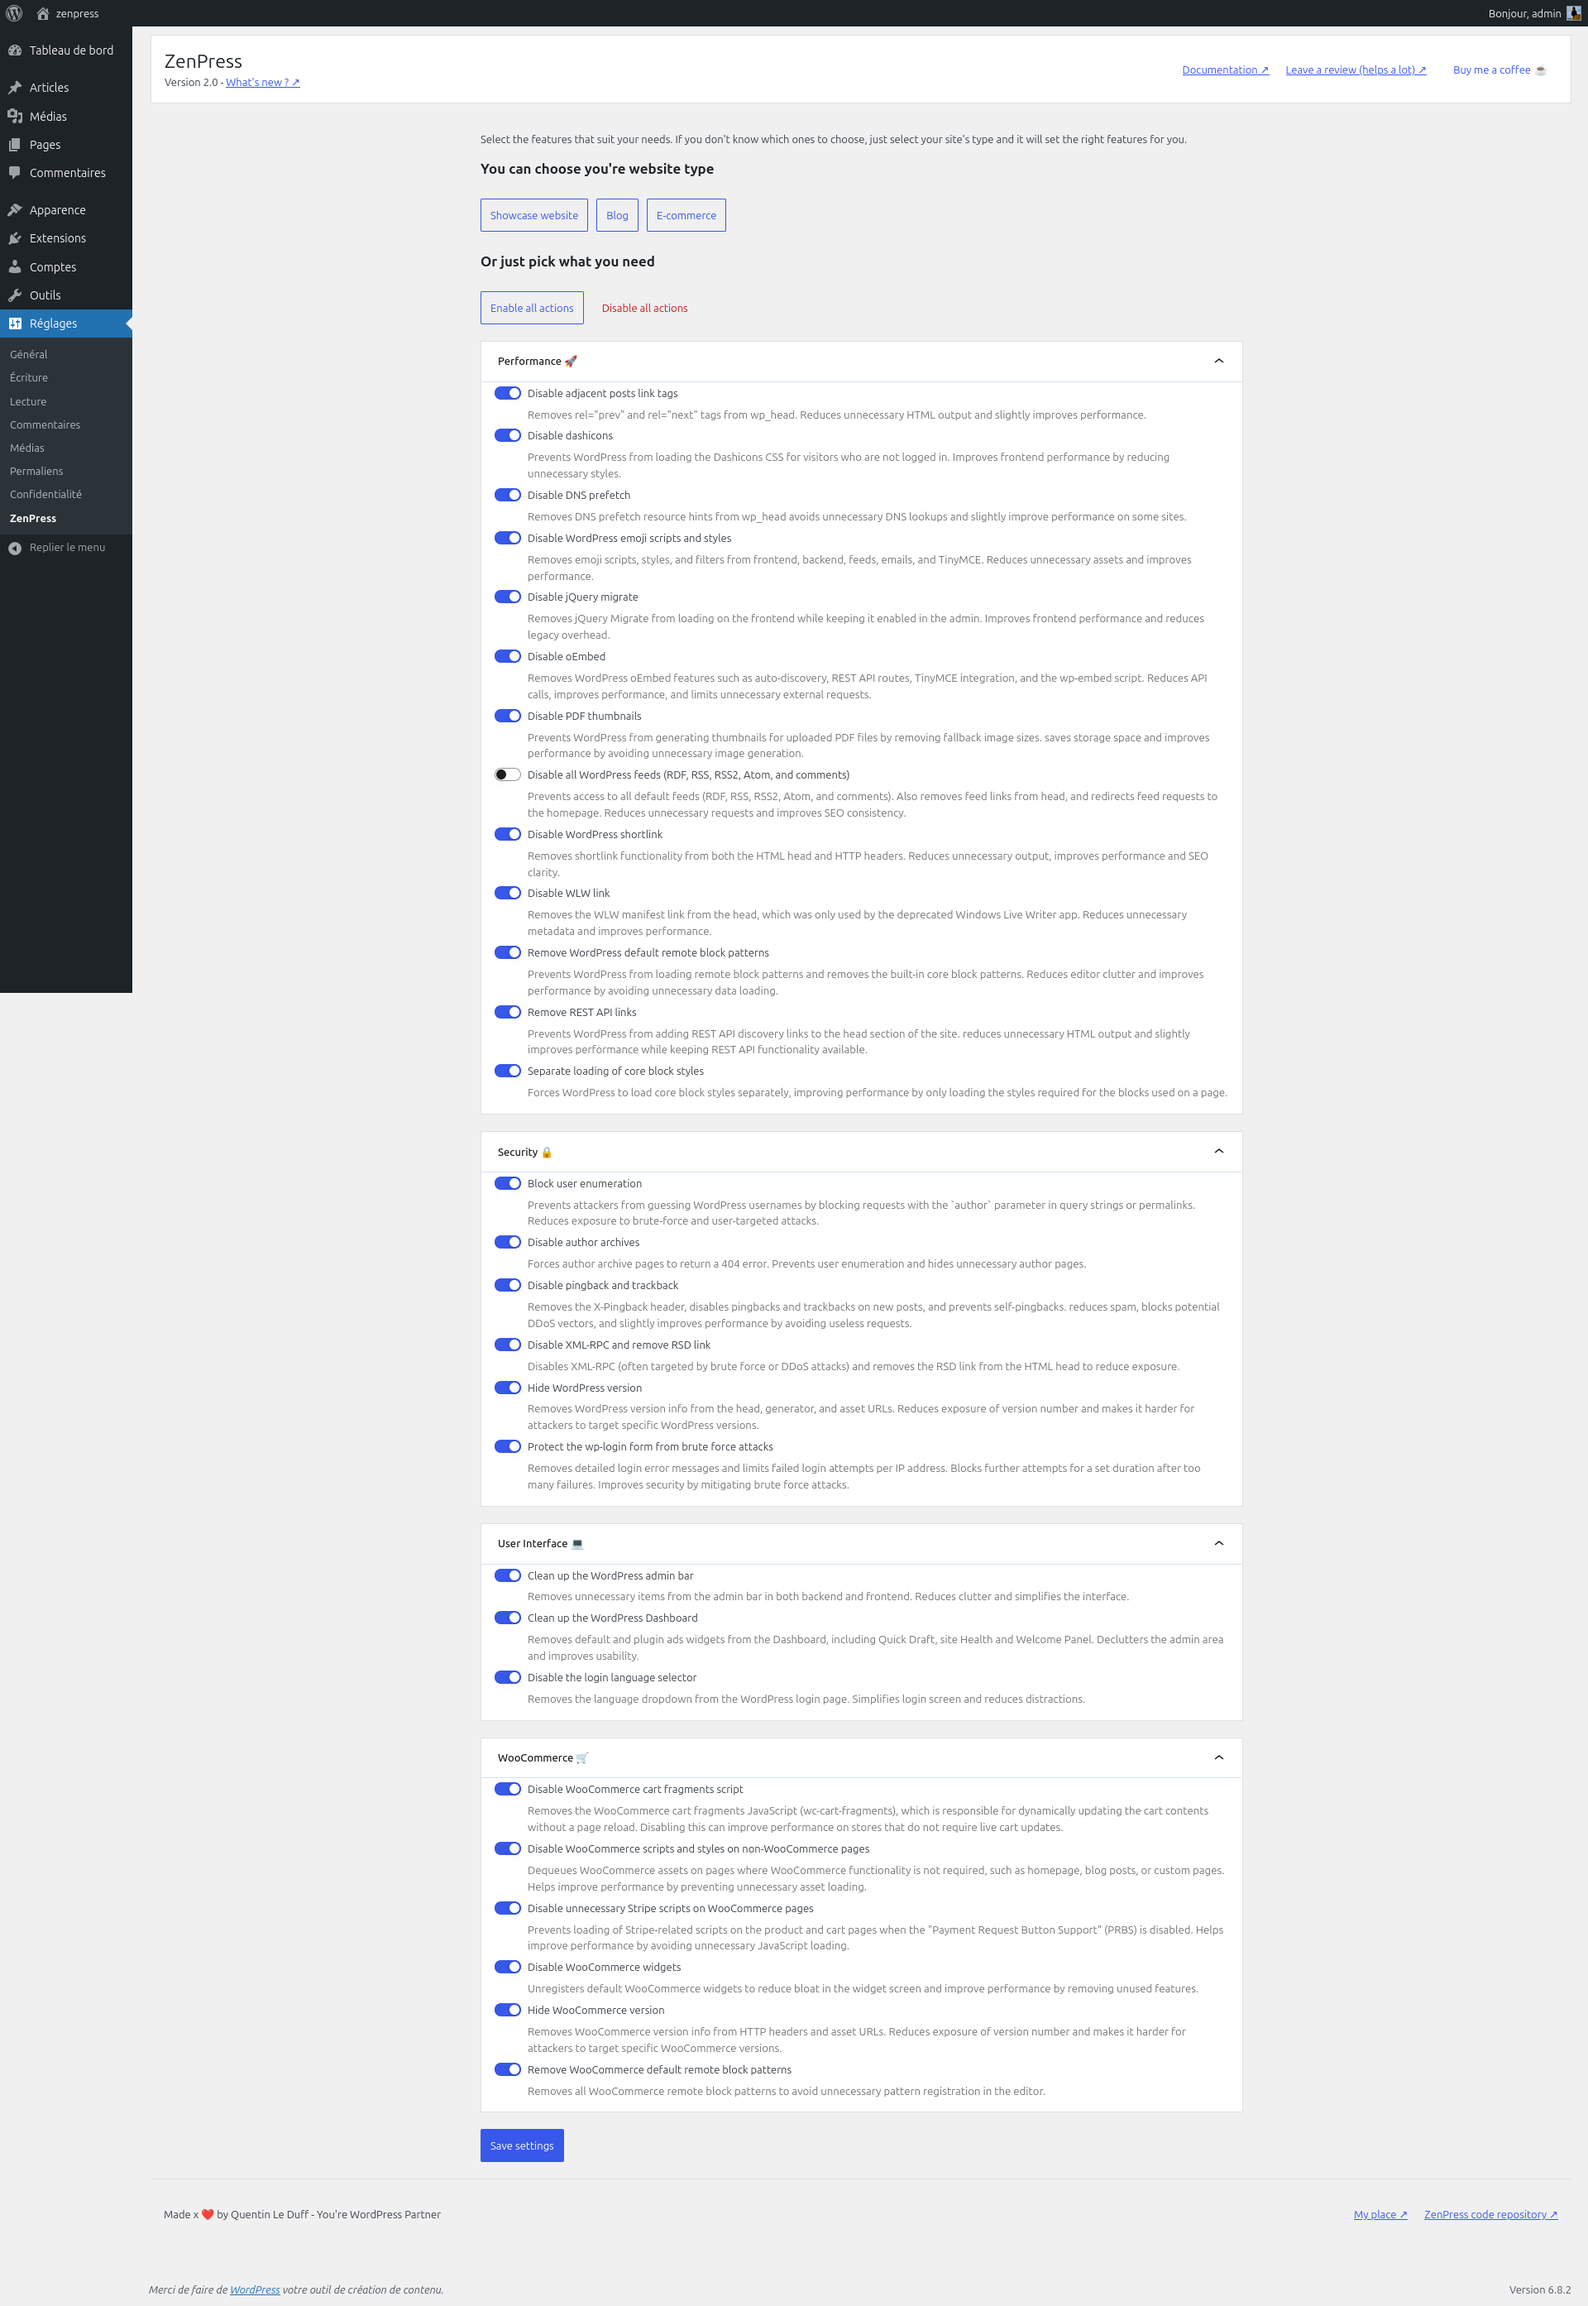
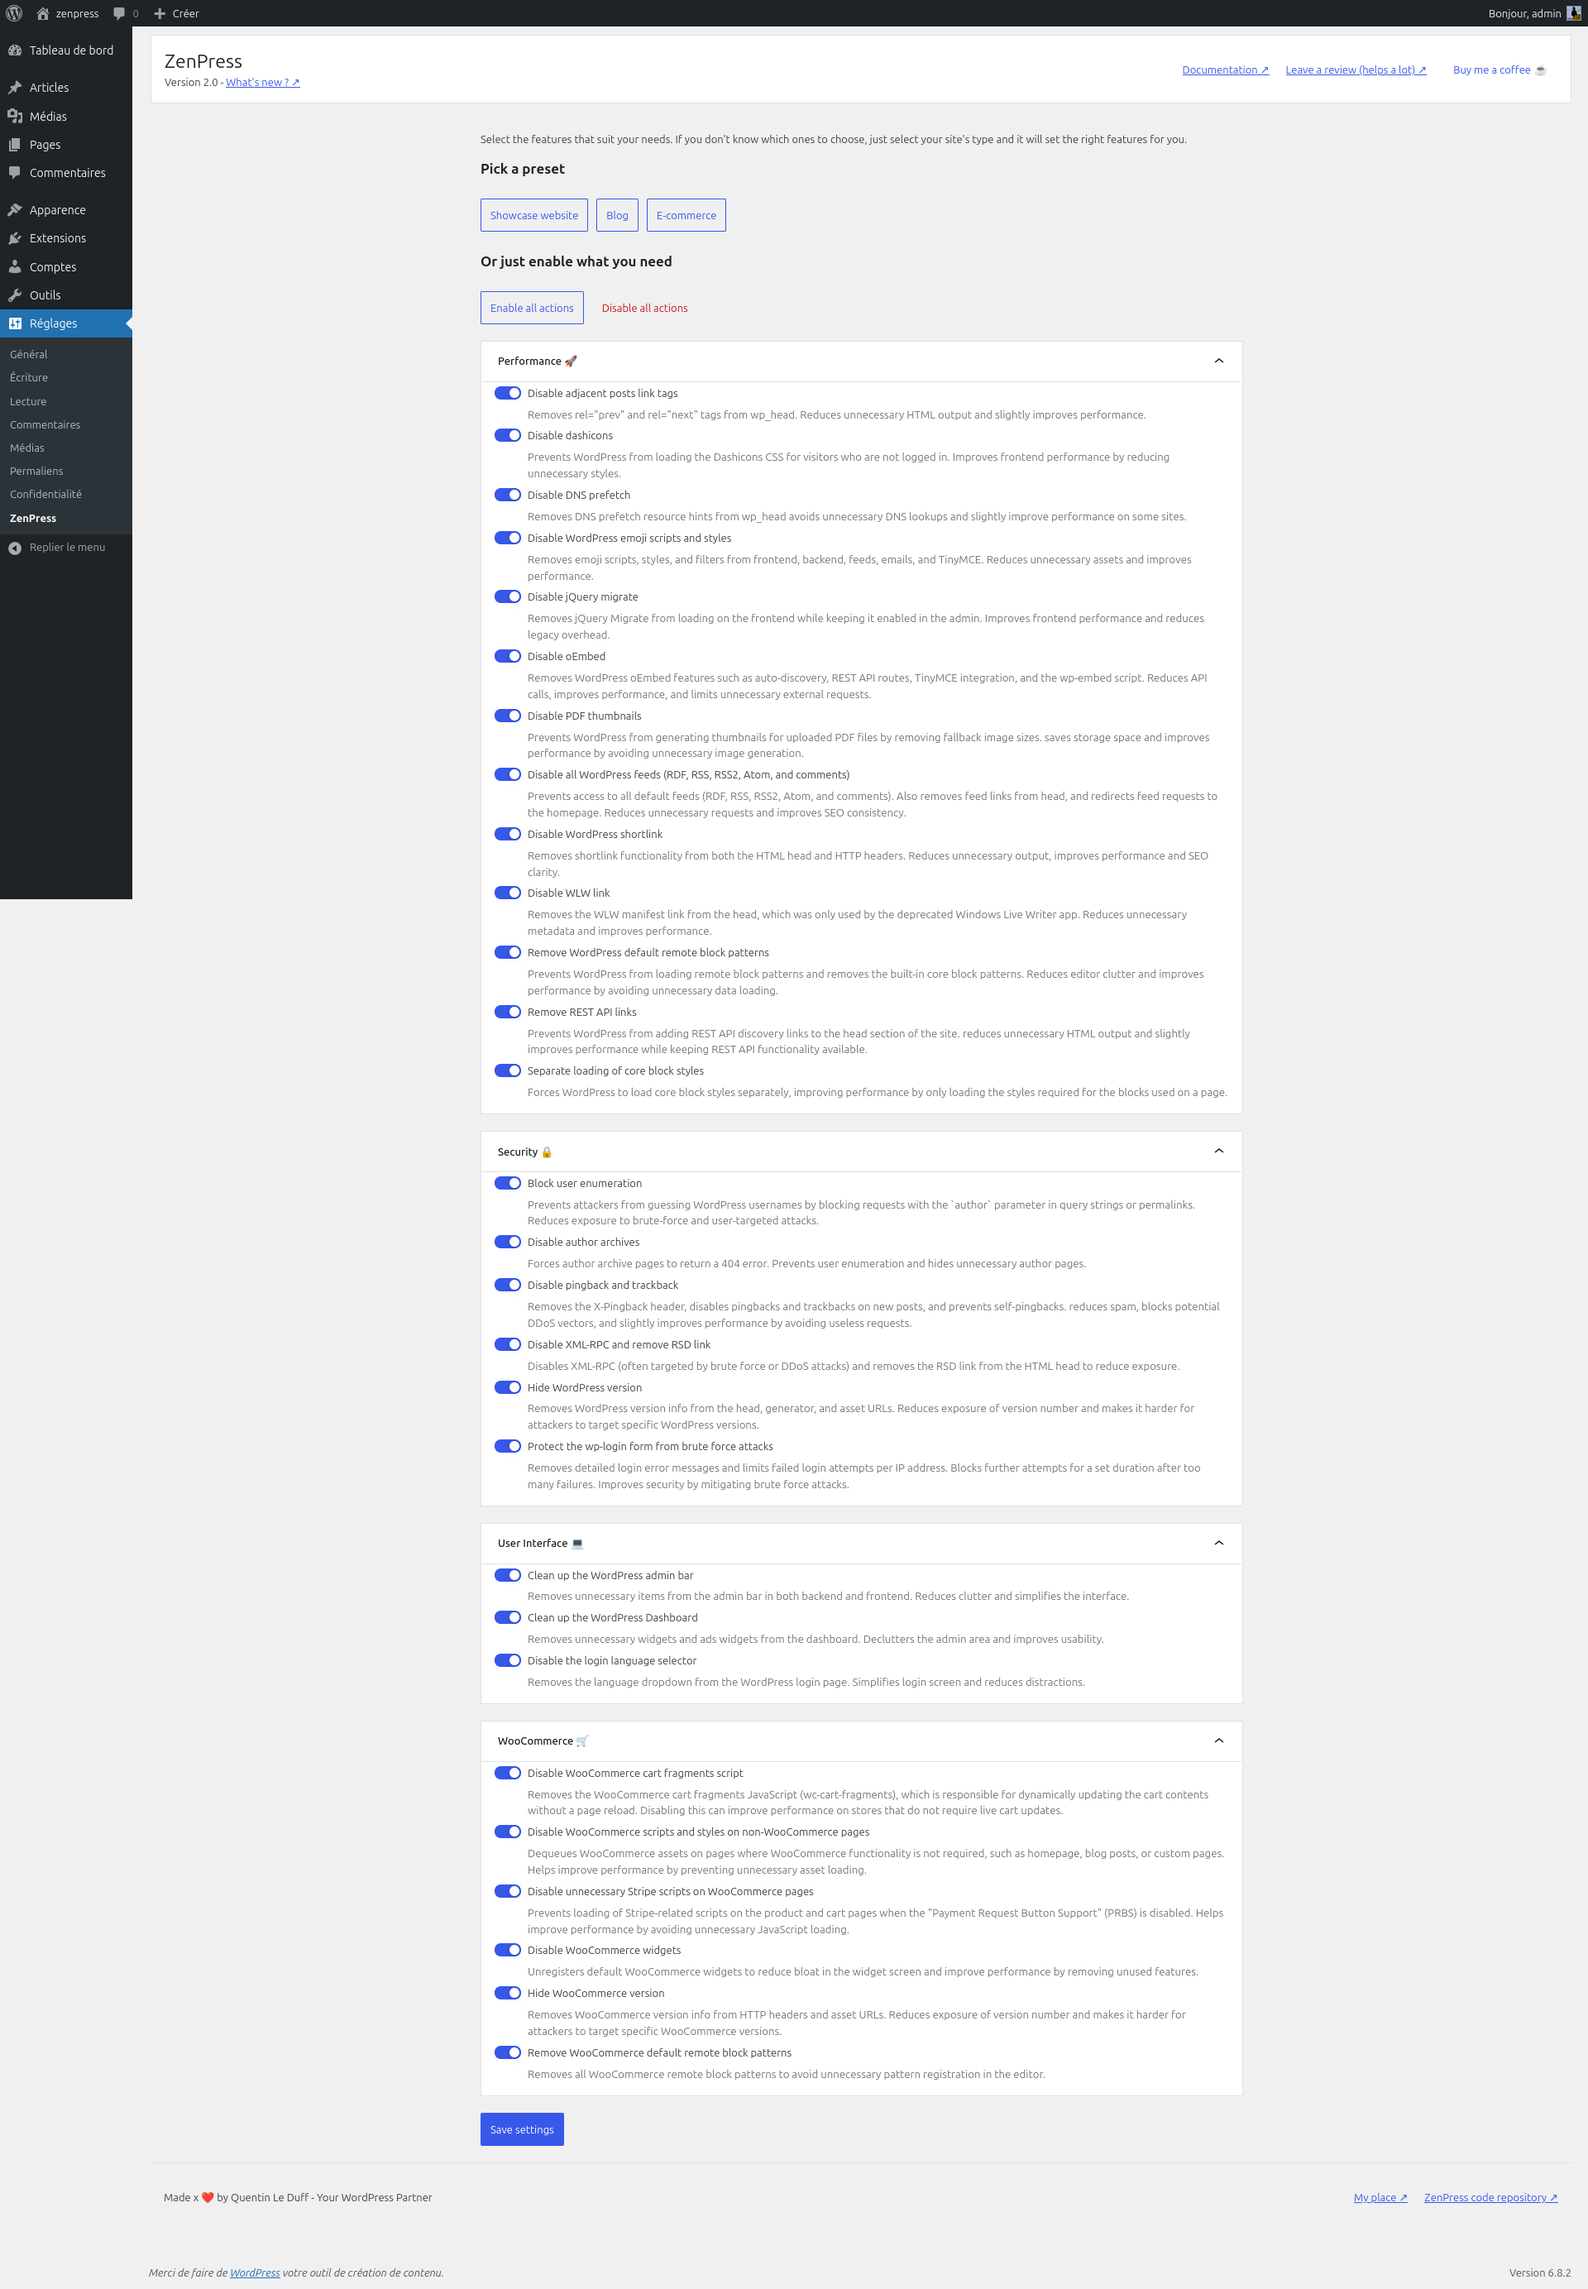
fix typo

diff --git a/assets/build/index.js b/assets/build/index.js
@@ -1,1 +1,1 @@
-(()=>{"use strict";var e={n:s=>{var t=s&&s.__esModule?()=>s.default:()=>s;return e.d(t,{a:t}),t},d:(s,t)=>{for(var n in t)e.o(t,n)&&!e.o(s,n)&&Object.defineProperty(s,n,{enumerable:!0,get:t[n]})},o:(e,s)=>Object.prototype.hasOwnProperty.call(e,s)};const s=window.wp.domReady;var t=e.n(s);const n=window.wp.element,i=window.wp.i18n,a=window.wp.components,r=window.wp.apiFetch;var o=e.n(r);const c=window.wp.data,p=window.wp.notices,l=window.ReactJSXRuntime,d=({label:e,value:s,onChange:t,help:n})=>(0,l.jsx)(a.ToggleControl,{label:e,checked:s,onChange:t,help:n,__nextHasNoMarginBottom:!0}),h=({onClick:e,isBusy:s})=>(0,l.jsx)(a.Button,{variant:"primary",onClick:e,isBusy:s,__next40pxDefaultSize:!0,children:(0,i.__)("Save settings","zenpress")}),u=()=>{const{removeNotice:e}=(0,c.useDispatch)(p.store),s=(0,c.useSelect)(e=>e(p.store).getNotices());return s?.length?(0,l.jsx)(a.NoticeList,{notices:s,onRemove:e}):null},_=()=>{const{snippets:e,setSnippets:s,saveSettings:t,isSaving:r}=(()=>{const[e,s]=(0,n.useState)({}),[t,a]=(0,n.useState)(!1),{createSuccessNotice:r,createErrorNotice:l}=(0,c.useDispatch)(p.store);return(0,n.useEffect)(()=>{o()({path:"/wp/v2/settings"}).then(e=>{const t=Array.isArray(e?.zenpress_active_snippets)?e.zenpress_active_snippets:[],n={},i=window?.zenpressSnippetsMeta||{};Object.keys(i).forEach(e=>{const s=i[e]||{};n[e]={...s,"enable-snippet":t.includes(e)}}),s(n)}).catch(()=>{l((0,i.__)("Failed to load settings.","zenpress"))})},[l]),{snippets:e,setSnippets:s,saveSettings:()=>{a(!0);const s=Object.keys(e).filter(s=>e[s]?.["enable-snippet"]||!1);return o()({path:"/wp/v2/settings",method:"POST",data:{zenpress_active_snippets:s}}).then(()=>{r((0,i.__)("Settings saved.","zenpress"))}).catch(()=>{l((0,i.__)("Failed to save settings.","zenpress"))}).finally(()=>a(!1))},isSaving:t}})(),[_,w]=(0,n.useState)(new Set),v=e=>{s(s=>{const t={},n=new Set(_);return Object.entries(s).forEach(([s,a])=>{const r=(Array.isArray(a?.preset)?a.preset:[]).includes(e);t[s]={...a,"enable-snippet":r},r&&n.add(a.category||(0,i.__)("Uncategorized","zenpress"))}),w(n),t})},x={};Object.keys(e).forEach(s=>{const t=e[s],n=t?.category||(0,i.__)("Uncategorized","zenpress");x[n]||(x[n]=[]),x[n].push({name:s,data:t})});const j=Object.keys(x).sort((e,s)=>e.localeCompare(s,void 0,{sensitivity:"base"}));return(0,l.jsx)(l.Fragment,{children:(0,l.jsx)("div",{className:"zenpress-row",children:(0,l.jsxs)("div",{className:"zenpress-col",children:[(0,l.jsxs)("div",{className:"zenpress-presets",children:[(0,l.jsxs)("div",{className:"zenpress-presets-description",children:[(0,l.jsx)("p",{children:(0,i.__)("Select the features that suit your needs. If you don't know which ones to choose, just select your site's type and it will set the right features for you.","zenpress")}),(0,l.jsx)("h2",{children:(0,i.__)("You can choose you're website type","zenpress")})]}),(0,l.jsx)(a.Button,{variant:"secondary",onClick:()=>v("showcase-website"),__next40pxDefaultSize:!0,children:(0,i.__)("Showcase website","zenpress")}),(0,l.jsx)(a.Button,{variant:"secondary",onClick:()=>v("blog"),__next40pxDefaultSize:!0,children:(0,i.__)("Blog","zenpress")}),(0,l.jsx)(a.Button,{variant:"secondary",onClick:()=>v("ecommerce"),__next40pxDefaultSize:!0,children:(0,i.__)("E-commerce","zenpress")}),(0,l.jsx)("div",{className:"zenpress-presets-description",children:(0,l.jsx)("h2",{children:(0,i.__)("Or just pick what you need","zenpress")})}),(0,l.jsxs)("div",{className:"zenpress-actions-bulk",children:[(0,l.jsx)(a.Button,{variant:"secondary",onClick:()=>{s(e=>{const s={};return Object.keys(e).forEach(t=>{s[t]={...e[t],"enable-snippet":!0}}),s}),w(new Set(Object.values(e).map(e=>e.category||(0,i.__)("Uncategorized","zenpress"))))},__next40pxDefaultSize:!0,children:(0,i.__)("Enable all actions","zenpress")}),(0,l.jsx)(a.Button,{isDestructive:"true",onClick:()=>{s(e=>{const s={};return Object.keys(e).forEach(t=>{s[t]={...e[t],"enable-snippet":!1}}),s})},__next40pxDefaultSize:!0,children:(0,i.__)("Disable all actions","zenpress")})]})]}),j.map(e=>(0,l.jsx)(a.Panel,{children:(0,l.jsx)(a.PanelBody,{title:e,initialOpen:_.has(e)||x[e].some(({data:e})=>e?.["enable-snippet"]),children:x[e].map(({name:e,data:t})=>(0,l.jsx)(a.PanelRow,{children:(0,l.jsx)(d,{label:t.title||e,value:t?.["enable-snippet"]||!1,onChange:()=>{return t=e,void s(e=>({...e,[t]:{...e[t],"enable-snippet":!e[t]?.["enable-snippet"]}}));var t},help:t.description||""})},e))})},e)),(0,l.jsx)("div",{className:"zenpress-actions",children:(0,l.jsx)(h,{onClick:t,isBusy:r})}),(0,l.jsx)("div",{className:"zenpress-notices",children:(0,l.jsx)(u,{})})]})})})};t()(()=>{const e=document.getElementById("zenpress-settings");e&&(0,n.createRoot)(e).render((0,l.jsx)(_,{}))})})();
+(()=>{"use strict";var e={n:s=>{var t=s&&s.__esModule?()=>s.default:()=>s;return e.d(t,{a:t}),t},d:(s,t)=>{for(var n in t)e.o(t,n)&&!e.o(s,n)&&Object.defineProperty(s,n,{enumerable:!0,get:t[n]})},o:(e,s)=>Object.prototype.hasOwnProperty.call(e,s)};const s=window.wp.domReady;var t=e.n(s);const n=window.wp.element,i=window.wp.i18n,a=window.wp.components,r=window.wp.apiFetch;var c=e.n(r);const o=window.wp.data,l=window.wp.notices,p=window.ReactJSXRuntime,d=({label:e,value:s,onChange:t,help:n})=>(0,p.jsx)(a.ToggleControl,{label:e,checked:s,onChange:t,help:n,__nextHasNoMarginBottom:!0}),h=({onClick:e,isBusy:s})=>(0,p.jsx)(a.Button,{variant:"primary",onClick:e,isBusy:s,__next40pxDefaultSize:!0,children:(0,i.__)("Save settings","zenpress")}),u=()=>{const{removeNotice:e}=(0,o.useDispatch)(l.store),s=(0,o.useSelect)(e=>e(l.store).getNotices());return s?.length?(0,p.jsx)(a.NoticeList,{notices:s,onRemove:e}):null},_=()=>{const{snippets:e,setSnippets:s,saveSettings:t,isSaving:r}=(()=>{const[e,s]=(0,n.useState)({}),[t,a]=(0,n.useState)(!1),{createSuccessNotice:r,createErrorNotice:p}=(0,o.useDispatch)(l.store);return(0,n.useEffect)(()=>{c()({path:"/wp/v2/settings"}).then(e=>{const t=Array.isArray(e?.zenpress_active_snippets)?e.zenpress_active_snippets:[],n={},i=window?.zenpressSnippetsMeta||{};Object.keys(i).forEach(e=>{const s=i[e]||{};n[e]={...s,"enable-snippet":t.includes(e)}}),s(n)}).catch(()=>{p((0,i.__)("Failed to load settings.","zenpress"))})},[p]),{snippets:e,setSnippets:s,saveSettings:()=>{a(!0);const s=Object.keys(e).filter(s=>e[s]?.["enable-snippet"]||!1);return c()({path:"/wp/v2/settings",method:"POST",data:{zenpress_active_snippets:s}}).then(()=>{r((0,i.__)("Settings saved.","zenpress"))}).catch(()=>{p((0,i.__)("Failed to save settings.","zenpress"))}).finally(()=>a(!1))},isSaving:t}})(),[_,w]=(0,n.useState)(new Set),v=e=>{s(s=>{const t={},n=new Set(_);return Object.entries(s).forEach(([s,a])=>{const r=(Array.isArray(a?.preset)?a.preset:[]).includes(e);t[s]={...a,"enable-snippet":r},r&&n.add(a.category||(0,i.__)("Uncategorized","zenpress"))}),w(n),t})},x={};Object.keys(e).forEach(s=>{const t=e[s],n=t?.category||(0,i.__)("Uncategorized","zenpress");x[n]||(x[n]=[]),x[n].push({name:s,data:t})});const j=Object.keys(x).sort((e,s)=>e.localeCompare(s,void 0,{sensitivity:"base"}));return(0,p.jsx)(p.Fragment,{children:(0,p.jsx)("div",{className:"zenpress-row",children:(0,p.jsxs)("div",{className:"zenpress-col",children:[(0,p.jsxs)("div",{className:"zenpress-presets",children:[(0,p.jsxs)("div",{className:"zenpress-presets-description",children:[(0,p.jsx)("p",{children:(0,i.__)("Select the features that suit your needs. If you don't know which ones to choose, just select your site's type and it will set the right features for you.","zenpress")}),(0,p.jsx)("h2",{children:(0,i.__)("Pick a preset","zenpress")})]}),(0,p.jsx)(a.Button,{variant:"secondary",onClick:()=>v("showcase-website"),__next40pxDefaultSize:!0,children:(0,i.__)("Showcase website","zenpress")}),(0,p.jsx)(a.Button,{variant:"secondary",onClick:()=>v("blog"),__next40pxDefaultSize:!0,children:(0,i.__)("Blog","zenpress")}),(0,p.jsx)(a.Button,{variant:"secondary",onClick:()=>v("ecommerce"),__next40pxDefaultSize:!0,children:(0,i.__)("E-commerce","zenpress")}),(0,p.jsx)("div",{className:"zenpress-presets-description",children:(0,p.jsx)("h2",{children:(0,i.__)("Or just enable what you need","zenpress")})}),(0,p.jsxs)("div",{className:"zenpress-actions-bulk",children:[(0,p.jsx)(a.Button,{variant:"secondary",onClick:()=>{s(e=>{const s={};return Object.keys(e).forEach(t=>{s[t]={...e[t],"enable-snippet":!0}}),s}),w(new Set(Object.values(e).map(e=>e.category||(0,i.__)("Uncategorized","zenpress"))))},__next40pxDefaultSize:!0,children:(0,i.__)("Enable all actions","zenpress")}),(0,p.jsx)(a.Button,{isDestructive:"true",onClick:()=>{s(e=>{const s={};return Object.keys(e).forEach(t=>{s[t]={...e[t],"enable-snippet":!1}}),s})},__next40pxDefaultSize:!0,children:(0,i.__)("Disable all actions","zenpress")})]})]}),j.map(e=>(0,p.jsx)(a.Panel,{children:(0,p.jsx)(a.PanelBody,{title:e,initialOpen:_.has(e)||x[e].some(({data:e})=>e?.["enable-snippet"]),children:x[e].map(({name:e,data:t})=>(0,p.jsx)(a.PanelRow,{children:(0,p.jsx)(d,{label:t.title||e,value:t?.["enable-snippet"]||!1,onChange:()=>{return t=e,void s(e=>({...e,[t]:{...e[t],"enable-snippet":!e[t]?.["enable-snippet"]}}));var t},help:t.description||""})},e))})},e)),(0,p.jsx)("div",{className:"zenpress-actions",children:(0,p.jsx)(h,{onClick:t,isBusy:r})}),(0,p.jsx)("div",{className:"zenpress-notices",children:(0,p.jsx)(u,{})})]})})})};t()(()=>{const e=document.getElementById("zenpress-settings");e&&(0,n.createRoot)(e).render((0,p.jsx)(_,{}))})})();

diff --git a/assets/src/index.js b/assets/src/index.js
@@ -248,7 +248,7 @@ const SettingsPage = () => {
 									'zenpress'
 								)}
 							</p>
-							<h2>{__('You can choose you\'re website type', 'zenpress')}</h2>
+							<h2>{__('Pick a preset', 'zenpress')}</h2>
 						</div>
 
 						<Button
@@ -273,7 +273,7 @@ const SettingsPage = () => {
 							{__('E-commerce', 'zenpress')}
 						</Button>
 						<div className="zenpress-presets-description">
-							<h2>{__('Or just pick what you need', 'zenpress')}</h2>
+							<h2>{__('Or just enable what you need', 'zenpress')}</h2>
 						</div>
 						<div className="zenpress-actions-bulk">
 							<Button

diff --git a/zenpress.php b/zenpress.php
@@ -211,7 +211,7 @@ function zenpress_options_page(): void {
 			<div class="zenpress-loading card">
 				<div class="zenpress-loading-body">
 					<p class="zenpress-loading-text">
-						<?php echo esc_html__('Loading you\'re ZenPress settings…', 'zenpress'); ?>
+						<?php echo esc_html__('Loading your ZenPress settings…', 'zenpress'); ?>
 					</p>
 				</div>
 			</div>
@@ -222,7 +222,7 @@ function zenpress_options_page(): void {
                 <p>
 					<?php echo esc_html__('Made ', 'zenpress'); ?>
 					<span aria-hidden="true"> x ❤ </span>
-					<?php echo esc_html__(' by Quentin Le Duff - You\'re WordPress Partner', 'zenpress'); ?>
+					<?php echo esc_html__(' by Quentin Le Duff - Your WordPress Partner', 'zenpress'); ?>
 				</p>
             </div>
 			<div class="zenpress-footer-navigation">

diff --git a/inc/meta/clean-dashboard-items.meta.php b/inc/meta/clean-dashboard-items.meta.php
@@ -12,7 +12,7 @@ if (!defined('ABSPATH')) {
 return [
     'title' => __('Clean up the WordPress Dashboard', 'zenpress'),
     'description' => __(
-        'Removes default and plugin ads widgets from the Dashboard, including Quick Draft, site Health and Welcome Panel. Declutters the admin area and improves usability.',
+        'Removes unnecessary widgets and ads widgets from the dashboard. Declutters the admin area and improves usability.',
         'zenpress'
     ),
     'category' => __('User interface 💻', 'zenpress'),

diff --git a/assets/build/index.asset.php b/assets/build/index.asset.php
@@ -1,1 +1,1 @@
-<?php return array('dependencies' => array('react-jsx-runtime', 'wp-api-fetch', 'wp-components', 'wp-data', 'wp-dom-ready', 'wp-element', 'wp-i18n', 'wp-notices'), 'version' => 'a1c7333028c78ce313b5');
+<?php return array('dependencies' => array('react-jsx-runtime', 'wp-api-fetch', 'wp-components', 'wp-data', 'wp-dom-ready', 'wp-element', 'wp-i18n', 'wp-notices'), 'version' => '9b91df213cf8e0f8ef1f');
